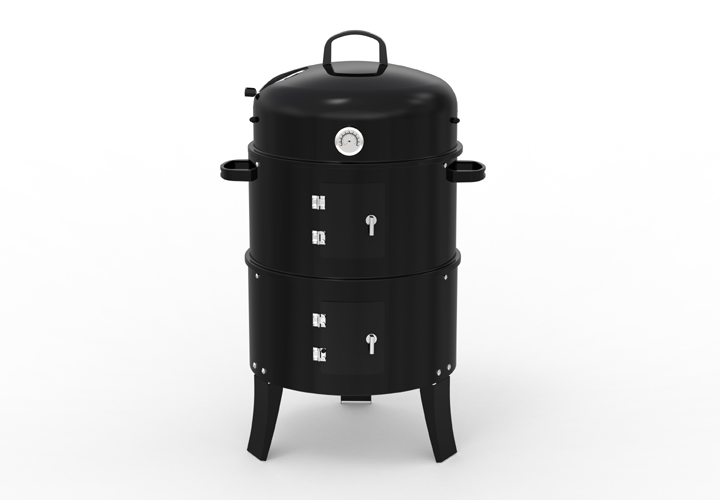
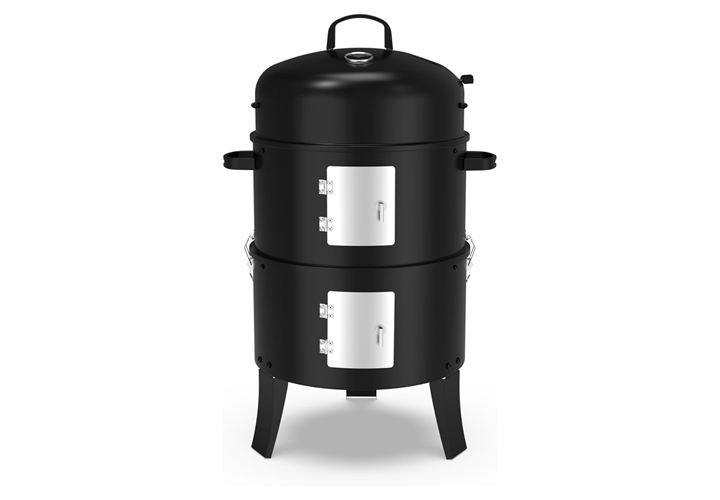
fix(odmoem): replace incorrect odm1 image and update page content

Changed region(s): [[0.3056, 0.03, 0.7333, 0.93]]

diff --git a/src/app/odmoem/page.tsx b/src/app/odmoem/page.tsx
@@ -51,7 +51,7 @@ export default function odmoem() {
       <section className="section-1">
         <div className="container flex flex-col gap160">
           <div className="flex flex-row gap160">
-            <div className="w-1/2" data-aos="fade-right"><Image className='rounded-xl box-shadow-xl' src="/images/odm/odm1-1.jpg" alt="odmoem" width={720} height={500} /></div>
+            <div className="w-1/2" data-aos="fade-right"><Image className='rounded-xl box-shadow-xl' src="/images/odm/odm1.jpg" alt="odmoem" width={720} height={500} /></div>
             <div className="w-1/2 flex flex-col justify-center" data-aos="fade-left">
               <span className="heading-sub text-primary font-bold">Step1</span>
               <h2 className="heading-main3 my-5">Share Your Idea or Reference Image</h2>
